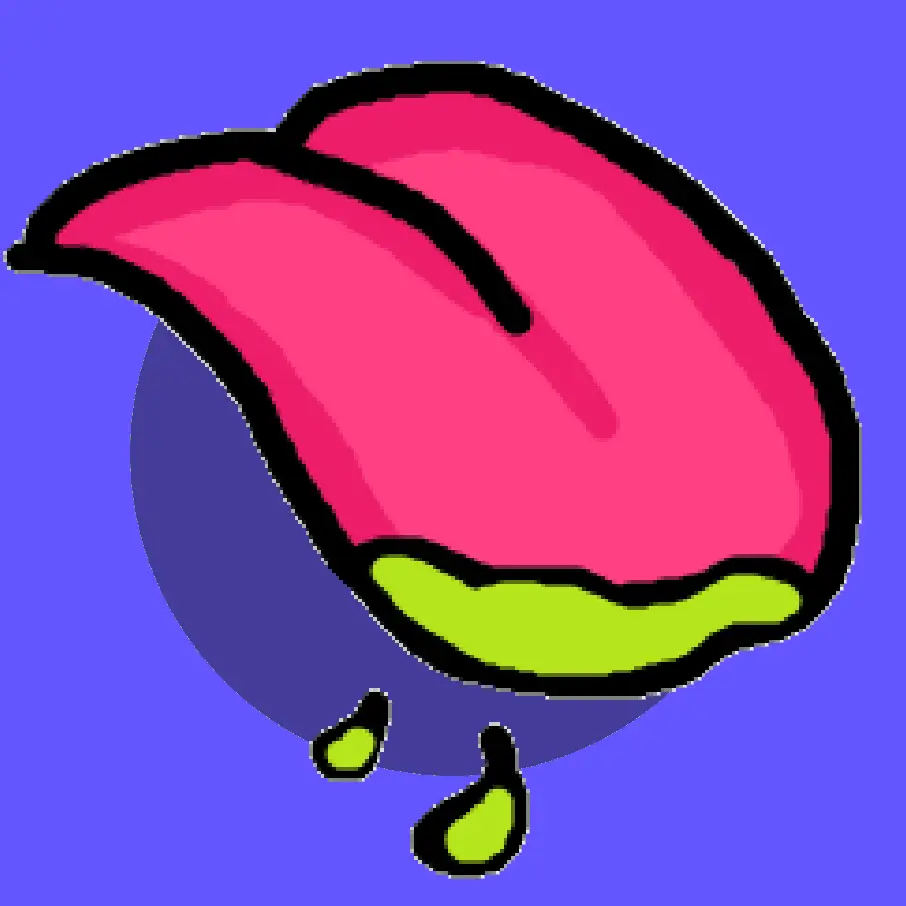
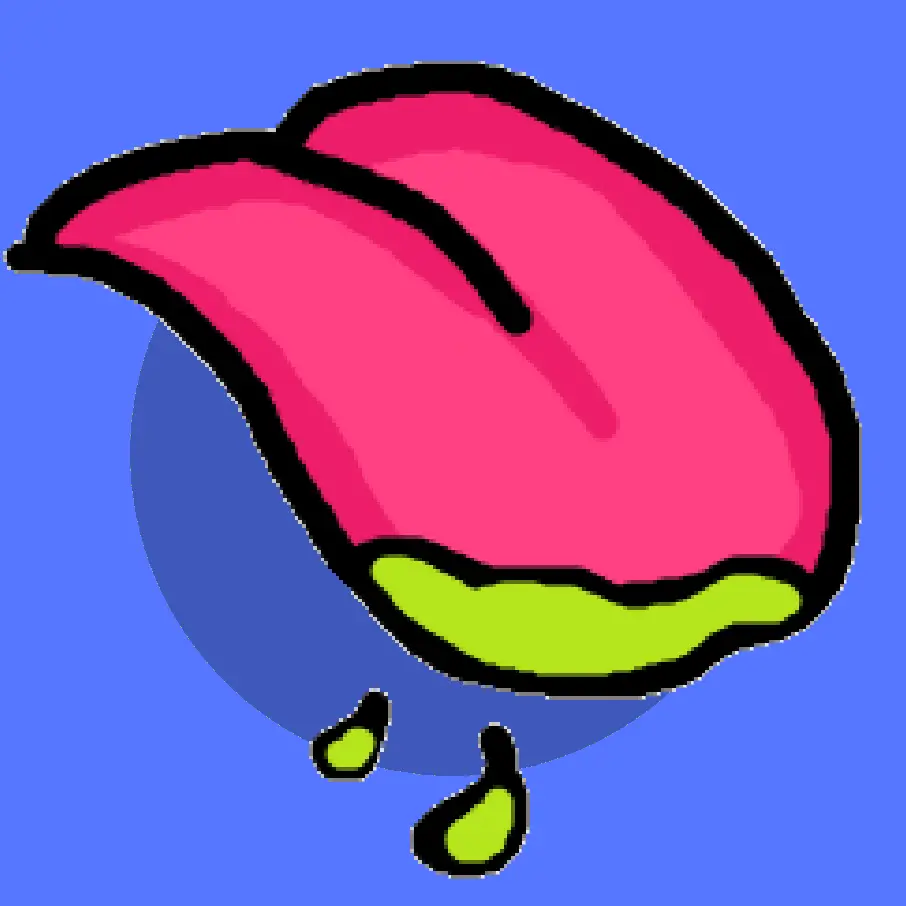
3004: added new images + updated monster stats

diff --git a/server/src/socket/adventureModeHandler.ts b/server/src/socket/adventureModeHandler.ts
@@ -22,6 +22,7 @@ import { createEquipment } from "../model/adventure/factories/equipmentFactory";
 import { Poison } from "../model/game/status/poison";
 import { Stun } from "../model/game/status/stun";
 import { SlimeSubstance } from "../model/game/consumables/slimeSubstance";
+import { LakeCurse } from "../model/game/status/lakeCurse";
 
 export const adventureModeHandler = (io: Server, socket: Socket) => {
   // Monster selection and adventure start
@@ -81,6 +82,8 @@ export const adventureModeHandler = (io: Server, socket: Socket) => {
       console.log("ADV TEST: EQUIPMENT", player.getEquipment());
       console.log("ADV TEST: EQUIPMENT", player.getStatuses());
       player.addStatus(new Poison());
+      player.addStatus(new LakeCurse(2));
+      player.addStatus(new Stun(2));
     }
   );
 

diff --git a/server/src/model/game/action/ability/shadowLeap.ts b/server/src/model/game/action/ability/shadowLeap.ts
@@ -32,8 +32,14 @@ export class ShadowLeapAbilityAction extends Action {
         const affectedMessage = `You dodged ${affectedPlayer.getName()}'s attack!`;
         const battleLogMessage = `${actingPlayer.getName()} dodged ${affectedPlayer.getName()}'s attack!`;
         affectedPlayer.addAction(
-          new NullAction(actingMessage, affectedMessage, battleLogMessage)
-        ); //inputs are incorrect?
+          new NullAction(
+            "Attack Dodged",
+            ActionIdentifier.NULL,
+            actingMessage,
+            affectedMessage,
+            battleLogMessage
+          )
+        );
       }
     });
   }

diff --git a/client/src/components/popups/AdventureInfo.tsx b/client/src/components/popups/AdventureInfo.tsx
@@ -202,7 +202,7 @@ export const AdventureInfoPopup = ({
 
           <div className="w-min">
             <ButtonGeneric color="red" size="battle" onClick={onClose}>
-              <OutlineText size="choice-text">Back</OutlineText>
+              <OutlineText size="choice-text">BACK</OutlineText>
             </ButtonGeneric>
           </div>
 

diff --git a/server/src/model/game/monster/slime.ts b/server/src/model/game/monster/slime.ts
@@ -13,9 +13,9 @@ export class Slime extends Monster {
       "blob blob...",
       new Neutral(),
       new SlimeSupportAction(),
-      15,
-      15,
-      15
+      5,
+      0,
+      8
     );
   }
 }

diff --git a/server/src/model/game/monster/pouncingBandit.ts b/server/src/model/game/monster/pouncingBandit.ts
@@ -12,7 +12,7 @@ export class PouncingBandit extends Monster {
       new Attacker(),
       new ShadowLeapAbilityAction(),
       20,
-      10,
+      4,
       12
     );
   }

diff --git a/server/src/model/game/monster/rockyRhino.ts b/server/src/model/game/monster/rockyRhino.ts
@@ -12,7 +12,7 @@ export class RockyRhino extends Monster {
       new Defender(),
       new GroundSlamAbilityAction(),
       30,
-      4,
+      1,
       16
     );
   }

diff --git a/server/src/model/game/monster/cinderTail.ts b/server/src/model/game/monster/cinderTail.ts
@@ -12,7 +12,7 @@ export class CinderTail extends Monster {
       new Balanced(),
       new FlameLashAbilityAction(),
       25,
-      7,
+      2,
       14
     );
   }
